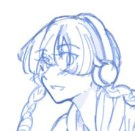
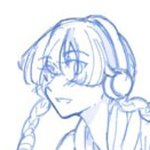
更新

diff --git a/assets/crop_thumbs.py b/assets/crop_thumbs.py
@@ -3,7 +3,7 @@ from PIL import Image
 
 src_folder = "gallery_src"
 dst_folder = "gallery_thumbs"
-size = (150, 150)
+size = (100, 100)
 
 os.makedirs(dst_folder, exist_ok=True)
 print("📸 开始裁剪缩略图（输出 JPG，透明铺白底）...\n")
